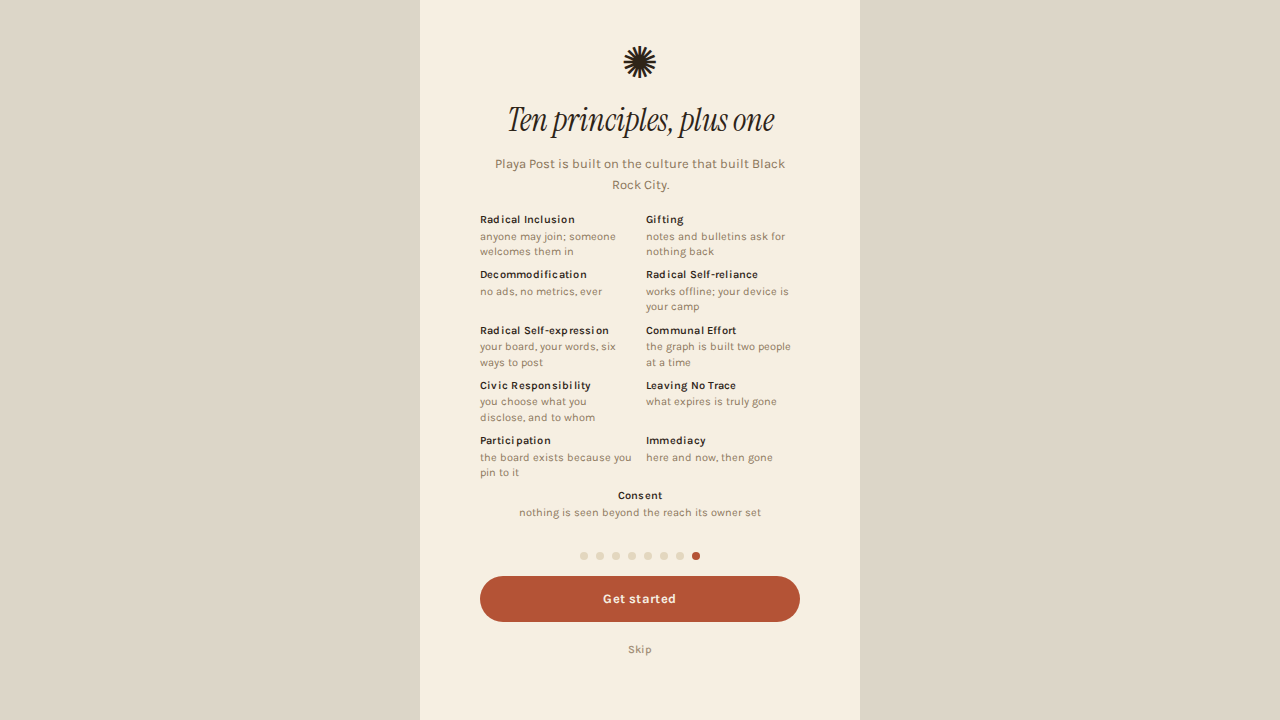
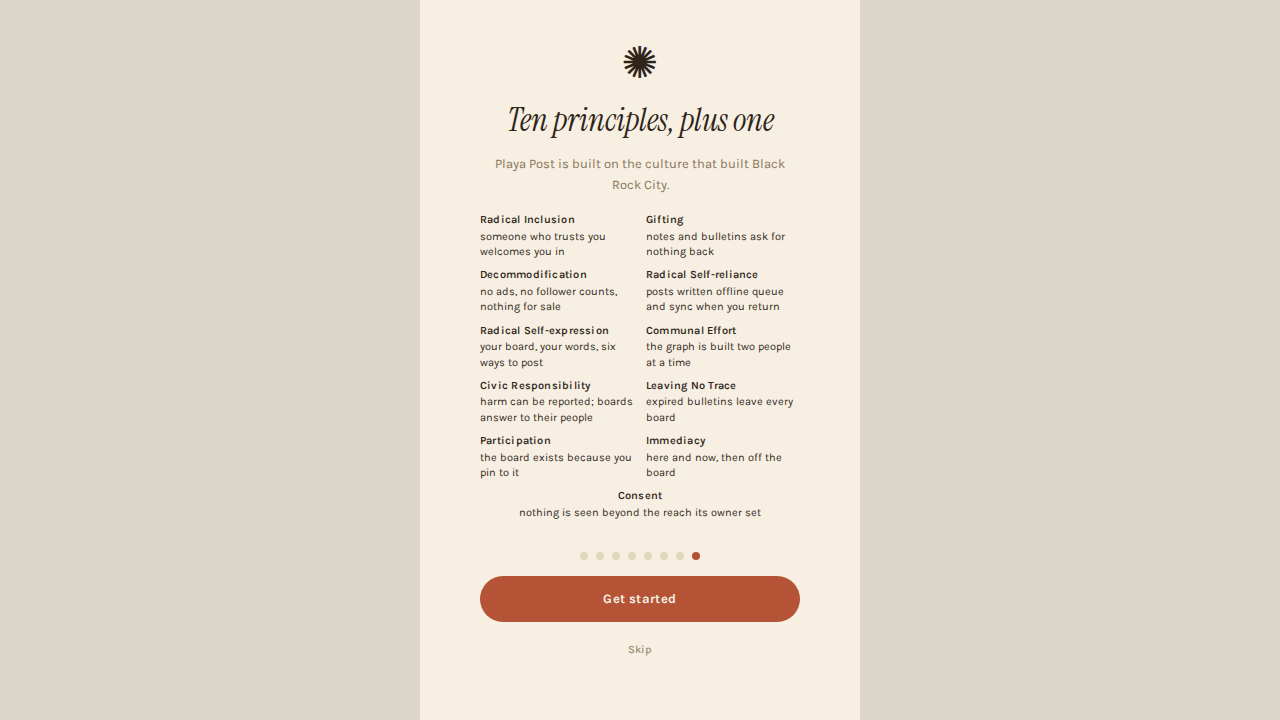
fix(welcome): say only what the network does, and make the tall step scrollable
Review fan-out on #104 converged on copy truthfulness: expiry is a
read-time visibility filter, not deletion; there is no sever operation;
joining is invite-only; offline support is a mutation queue, not full
offline reads. Every over-claiming gloss and step body now states the
behaviour the code has, and the module header pins the roll-call order.

Layout: the closing step measured 626px in a 568px viewport with plain
`center` pushing its start edge above the scroll origin — unreachable.
`.welcome` now owns `justify-content: safe center` (and drops the
`screen--centred` modifier whose later plain `center` overrode it);
measured reachable at 320x568, 568x320, 390x844.

Also: dl/dt/dd glossary markup with an explicit --plus-one marker,
AA-passing gloss ink, safe icon glyphs for the two tofu-risk codepoints,
testid-based e2e count, the comp's three steps pinned by inline
snapshot, and the "six ways to post" gloss bound to the bulletin-type
contract.

diff --git a/apps/web/src/app/welcome/welcome-steps.unit.test.ts b/apps/web/src/app/welcome/welcome-steps.unit.test.ts
@@ -1,5 +1,7 @@
 import { afterEach, beforeEach, describe, expect, it } from 'vitest';
 
+import { BULLETIN_TYPE } from '@playa-post/contracts';
+
 import { hasSeenWelcome, markWelcomeSeen, WELCOME_STEPS } from './welcome-steps';
 
 /**
@@ -56,30 +58,74 @@ describe('the welcome-seen flag', () => {
 });
 
 describe('the welcome steps', () => {
-  it('opens with the comp’s three steps, with the sample query on the search step', () => {
+  it('carries eight steps: the comp’s three, four themed, one closing roll-call', () => {
     expect(WELCOME_STEPS).toHaveLength(8);
     expect(WELCOME_STEPS[2]?.code).toBe('type:offer trust:>=60 -truck');
     expect(WELCOME_STEPS.filter((step) => step.code !== null)).toHaveLength(1);
   });
 
-  it('closes by naming all ten principles plus consent, and only there', () => {
+  // The comp-fidelity guard. The five steps after these are ours to reword, but the
+  // first three are `design/Playa Post.dc.html`'s `obSteps` verbatim — a snapshot,
+  // because "unchanged" is the whole assertion and any prose diff should be read.
+  it('opens with the comp’s three steps, word for word', () => {
+    expect(WELCOME_STEPS.slice(0, 3)).toMatchInlineSnapshot(`
+      [
+        {
+          "body": "People join by invitation and consent. Trust is a private 0–100 dial, directional, and visible only to you. Pan and zoom — clusters form around the people you trust.",
+          "code": null,
+          "icon": "◉",
+          "principles": null,
+          "title": "Your graph is yours",
+        },
+        {
+          "body": "Offers, requests, events, collabs, thanks, intros. They expire. To reach someone, pin a note to their board — there is no inbox.",
+          "code": null,
+          "icon": "▤",
+          "principles": null,
+          "title": "Short, typed bulletins",
+        },
+        {
+          "body": "The board speaks a tiny query language. Save any search as a view and get pinged when new bulletins match.",
+          "code": "type:offer trust:>=60 -truck",
+          "icon": "⌕",
+          "principles": null,
+          "title": "Search like a local",
+        },
+      ]
+    `);
+  });
+
+  // Names, glosses, and order are all pinned. Every gloss is a claim about something
+  // the app does, so a reworded one has to be re-argued here rather than slipped in;
+  // the order is Burning Man's published ten with Consent last, not alphabetical.
+  it('closes by naming all ten principles plus consent, glossed, and only there', () => {
     const closing = WELCOME_STEPS.at(-1);
-    expect(closing?.principles?.map((principle) => principle.name)).toEqual([
-      'Radical Inclusion',
-      'Gifting',
-      'Decommodification',
-      'Radical Self-reliance',
-      'Radical Self-expression',
-      'Communal Effort',
-      'Civic Responsibility',
-      'Leaving No Trace',
-      'Participation',
-      'Immediacy',
-      'Consent',
+    expect(closing?.principles).toEqual([
+      { name: 'Radical Inclusion', gloss: 'someone who trusts you welcomes you in' },
+      { name: 'Gifting', gloss: 'notes and bulletins ask for nothing back' },
+      { name: 'Decommodification', gloss: 'no ads, no follower counts, nothing for sale' },
+      { name: 'Radical Self-reliance', gloss: 'posts written offline queue and sync when you return' },
+      { name: 'Radical Self-expression', gloss: 'your board, your words, six ways to post' },
+      { name: 'Communal Effort', gloss: 'the graph is built two people at a time' },
+      { name: 'Civic Responsibility', gloss: 'harm can be reported; boards answer to their people' },
+      { name: 'Leaving No Trace', gloss: 'expired bulletins leave every board' },
+      { name: 'Participation', gloss: 'the board exists because you pin to it' },
+      { name: 'Immediacy', gloss: 'here and now, then off the board' },
+      { name: 'Consent', gloss: 'nothing is seen beyond the reach its owner set' },
     ]);
     expect(
       WELCOME_STEPS.filter((step) => step.principles !== null),
     ).toEqual([closing]);
+  });
+
+  it('the “six ways to post” gloss counts the bulletin-type contract', () => {
+    // A seventh postable type turns the gloss into a lie; this is where that lands.
+    expect(Object.keys(BULLETIN_TYPE)).toHaveLength(6);
+    expect(
+      WELCOME_STEPS.at(-1)?.principles?.find(
+        (principle) => principle.name === 'Radical Self-expression',
+      )?.gloss,
+    ).toContain('six ways to post');
   });
 
   it('glosses every principle, briefly enough to sit two-up on a phone', () => {

diff --git a/apps/web/src/app/welcome/welcome-steps.ts b/apps/web/src/app/welcome/welcome-steps.ts
@@ -8,6 +8,8 @@
  * step leads with the principles it grounds; the closing step names all eleven, each
  * glossed by the concrete behaviour that honours it — every gloss is a claim about
  * something the app actually does, so if a feature changes, its gloss owes an edit.
+ * The roll-call runs in Burning Man's own published order with Consent appended last,
+ * so it is deliberately not alphabetical — do not tidy it.
  *
  * The flag lives in `localStorage` under the comp's own key (`playapost-onboarded`) —
  * device-scoped on purpose. Welcome is a pitch to somebody who may never sign in, so
@@ -55,12 +57,12 @@ export const WELCOME_STEPS: readonly WelcomeStep[] = [
   {
     icon: '✶',
     title: 'Included, by consent',
-    body: 'Everyone is welcome; no one is exposed. Each connection is offered and accepted, never scraped, and your reach dial decides exactly how far your presence carries. Nothing travels further than its owner chose.',
+    body: 'Everyone is welcome; no one is exposed. Each connection is offered and accepted, never scraped, and your reach dial bounds how far your presence carries. Nothing travels further than its owner chose. Everyone answers to their neighbours, too: anything harmful can be reported.',
     code: null,
     principles: null,
   },
   {
-    icon: '⚘',
+    icon: '✿',
     title: 'Gifts, not products',
     body: 'A bulletin is an offer to your neighbours; a note is a gift left on one board. No ads, no follower counts, no ranking algorithm — nothing here is for sale, least of all your attention.',
     code: null,
@@ -74,9 +76,9 @@ export const WELCOME_STEPS: readonly WelcomeStep[] = [
     principles: null,
   },
   {
-    icon: '♲',
+    icon: '◇',
     title: 'Leave no trace',
-    body: 'Expired means gone, and a severed connection takes its author’s trace with it. The network keeps the least it needs to run; your words belong to the people you gave them to.',
+    body: 'Expired bulletins leave every board, and nothing you post is broadcast beyond your reach. Your words belong to the people you gave them to.',
     code: null,
     principles: null,
   },
@@ -86,16 +88,16 @@ export const WELCOME_STEPS: readonly WelcomeStep[] = [
     body: 'Playa Post is built on the culture that built Black Rock City.',
     code: null,
     principles: [
-      { name: 'Radical Inclusion', gloss: 'anyone may join; someone welcomes them in' },
+      { name: 'Radical Inclusion', gloss: 'someone who trusts you welcomes you in' },
       { name: 'Gifting', gloss: 'notes and bulletins ask for nothing back' },
-      { name: 'Decommodification', gloss: 'no ads, no metrics, ever' },
-      { name: 'Radical Self-reliance', gloss: 'works offline; your device is your camp' },
+      { name: 'Decommodification', gloss: 'no ads, no follower counts, nothing for sale' },
+      { name: 'Radical Self-reliance', gloss: 'posts written offline queue and sync when you return' },
       { name: 'Radical Self-expression', gloss: 'your board, your words, six ways to post' },
       { name: 'Communal Effort', gloss: 'the graph is built two people at a time' },
-      { name: 'Civic Responsibility', gloss: 'you choose what you disclose, and to whom' },
-      { name: 'Leaving No Trace', gloss: 'what expires is truly gone' },
+      { name: 'Civic Responsibility', gloss: 'harm can be reported; boards answer to their people' },
+      { name: 'Leaving No Trace', gloss: 'expired bulletins leave every board' },
       { name: 'Participation', gloss: 'the board exists because you pin to it' },
-      { name: 'Immediacy', gloss: 'here and now, then gone' },
+      { name: 'Immediacy', gloss: 'here and now, then off the board' },
       { name: 'Consent', gloss: 'nothing is seen beyond the reach its owner set' },
     ],
   },

diff --git a/apps/web/src/app/welcome/welcome.css b/apps/web/src/app/welcome/welcome.css
@@ -5,7 +5,13 @@
  */
 
 .welcome {
-  justify-content: center;
+  /* `safe center`, never plain `center`: this is a scrolling flex column, and a
+   * centred column whose content is taller than the box pushes its start edge above
+   * the scroll origin, where no gesture can reach it. The tallest step — the
+   * eleven-name roll-call — measures 626px against a 568px viewport on a 320-wide
+   * phone, so plain `center` clips its opening lines for good. `safe` falls back to
+   * `start` exactly when it overflows, and centres otherwise. */
+  justify-content: safe center;
   /* The screen is a flex column; without this, `stretch` left-anchors the
    * max-width children (`__body`, `__next`) and the dots row. */
   align-items: center;
@@ -46,11 +52,17 @@
 }
 
 /*
- * The closing step's principle roll-call: eleven name-over-gloss cells, two-up so
- * they fit a phone without scrolling, left-aligned against the screen's centred
- * text so the names read as a list rather than confetti. The odd eleventh cell —
- * Consent, the +1 — spans both columns and centres itself: the extra principle
- * literally stands apart.
+ * The closing step's principle roll-call: eleven name-over-gloss cells, two-up on a
+ * phone and left-aligned against the screen's centred text so the names read as a
+ * list rather than confetti. Two-up keeps the step short, not short enough to fit —
+ * `safe center` above is what makes the overflow reachable. The +1 — Consent, marked
+ * by the route rather than by ordinal — spans both columns and centres itself: the
+ * extra principle literally stands apart.
+ *
+ * A definition list, because a name→gloss pair is exactly that; each entry is the
+ * HTML5 `div` grouping, which is what the grid places. `dl` and `dd` carry UA margins
+ * (a block margin, and a 40px inline indent on `dd`) that would break both the gaps
+ * and the two-up alignment, so both are zeroed.
  */
 .welcome__principles {
   display: grid;
@@ -59,7 +71,6 @@
   margin: 0;
   padding: 0;
   max-width: 20rem;
-  list-style: none;
   text-align: left;
 }
 
@@ -68,7 +79,7 @@
   flex-direction: column;
 }
 
-.welcome__principle:last-child {
+.welcome__principle--plus-one {
   grid-column: 1 / -1;
   text-align: center;
 }
@@ -80,9 +91,13 @@
 }
 
 .welcome__principle-gloss {
+  margin: 0;
   font-size: var(--pp-text-xs);
   line-height: 1.4;
-  color: var(--pp-sub);
+  /* `--pp-ink`, not the `--pp-sub` the other secondary copy uses: 11px is well under
+   * WCAG's 18.66px large-text threshold, and `--pp-sub` on `--pp-bg` measures 3.85:1
+   * against AA's 4.5:1 floor for body text. */
+  color: var(--pp-ink);
 }
 
 .welcome__dots {

diff --git a/apps/web/src/app/routes/welcome.tsx b/apps/web/src/app/routes/welcome.tsx
@@ -38,7 +38,9 @@ export function WelcomeRoute(): JSX.Element {
   return (
     <div className="app-frame">
       <main className="app-column" data-testid="welcome">
-        <div className="screen screen--fill screen--centred welcome">
+        {/* Not `screen--centred`: its plain `center` lands later in the cascade and
+            would override the `safe center` that keeps the tall roll-call scrollable. */}
+        <div className="screen screen--fill welcome">
           <button className="welcome__skip" type="button" onClick={finish}>
             Skip
           </button>
@@ -50,14 +52,25 @@ export function WelcomeRoute(): JSX.Element {
           <p className="welcome__body">{current.body}</p>
           {current.code === null ? null : <code className="welcome__code">{current.code}</code>}
           {current.principles === null ? null : (
-            <ul className="welcome__principles">
-              {current.principles.map((principle) => (
-                <li key={principle.name} className="welcome__principle">
-                  <strong className="welcome__principle-name">{principle.name}</strong>
-                  <span className="welcome__principle-gloss">{principle.gloss}</span>
-                </li>
+            <dl className="welcome__principles">
+              {current.principles.map(({ name, gloss }, index, all) => (
+                // The +1 — Consent — is marked here rather than matched with a
+                // `:last-child` rule, so the stylesheet styles the extra principle
+                // instead of whichever one happens to be eleventh.
+                <div
+                  key={name}
+                  className={
+                    index === all.length - 1
+                      ? 'welcome__principle welcome__principle--plus-one'
+                      : 'welcome__principle'
+                  }
+                  data-testid="welcome-principle"
+                >
+                  <dt className="welcome__principle-name">{name}</dt>
+                  <dd className="welcome__principle-gloss">{gloss}</dd>
+                </div>
               ))}
-            </ul>
+            </dl>
           )}
 
           <div className="welcome__dots" aria-hidden="true">

diff --git a/tests/e2e/welcome.spec.ts b/tests/e2e/welcome.spec.ts
@@ -11,8 +11,9 @@ import { expect, test } from '@playwright/test';
  * Both exits stamp `playapost-onboarded` and land on `/signin`, and the replay
  * assertion proves the stamp sticks: the second anonymous visit skips the flow.
  *
- * Writes `docs/engineering/screenshots/m5-welcome-step-{1,3}.png` when
- * `E2E_WELCOME_SCREENSHOT_DIR` is set — the same opt-in shape as
+ * Writes `docs/engineering/screenshots/m5-welcome-step-{1..8}.png` — one per step, the
+ * first before the walk and the rest as the walk advances — when
+ * `E2E_WELCOME_SCREENSHOT_DIR` is set: the same opt-in shape as
  * `E2E_YOU_SCREENSHOT_DIR` in `you-screen.spec.ts`, so a normal run writes nothing.
  *
  * Advisory, like the rest of `test:e2e` (`docs/engineering/l5-plan.md` D2).
@@ -54,10 +55,7 @@ test.describe('the welcome flow', () => {
     }
     await expect(page.getByTestId('welcome-next')).toHaveText('Get started');
     // The closing step carries the full principle roll-call, ten plus consent.
-    await expect(page.locator('.welcome__principle')).toHaveCount(11);
-    if (directory !== undefined && directory !== '') {
-      await page.screenshot({ path: `${directory}/m5-welcome-step-8.png`, fullPage: true });
-    }
+    await expect(page.getByTestId('welcome-principle')).toHaveCount(11);
 
     await page.getByTestId('welcome-next').click();
     await expect(page).toHaveURL(/\/signin$/);
